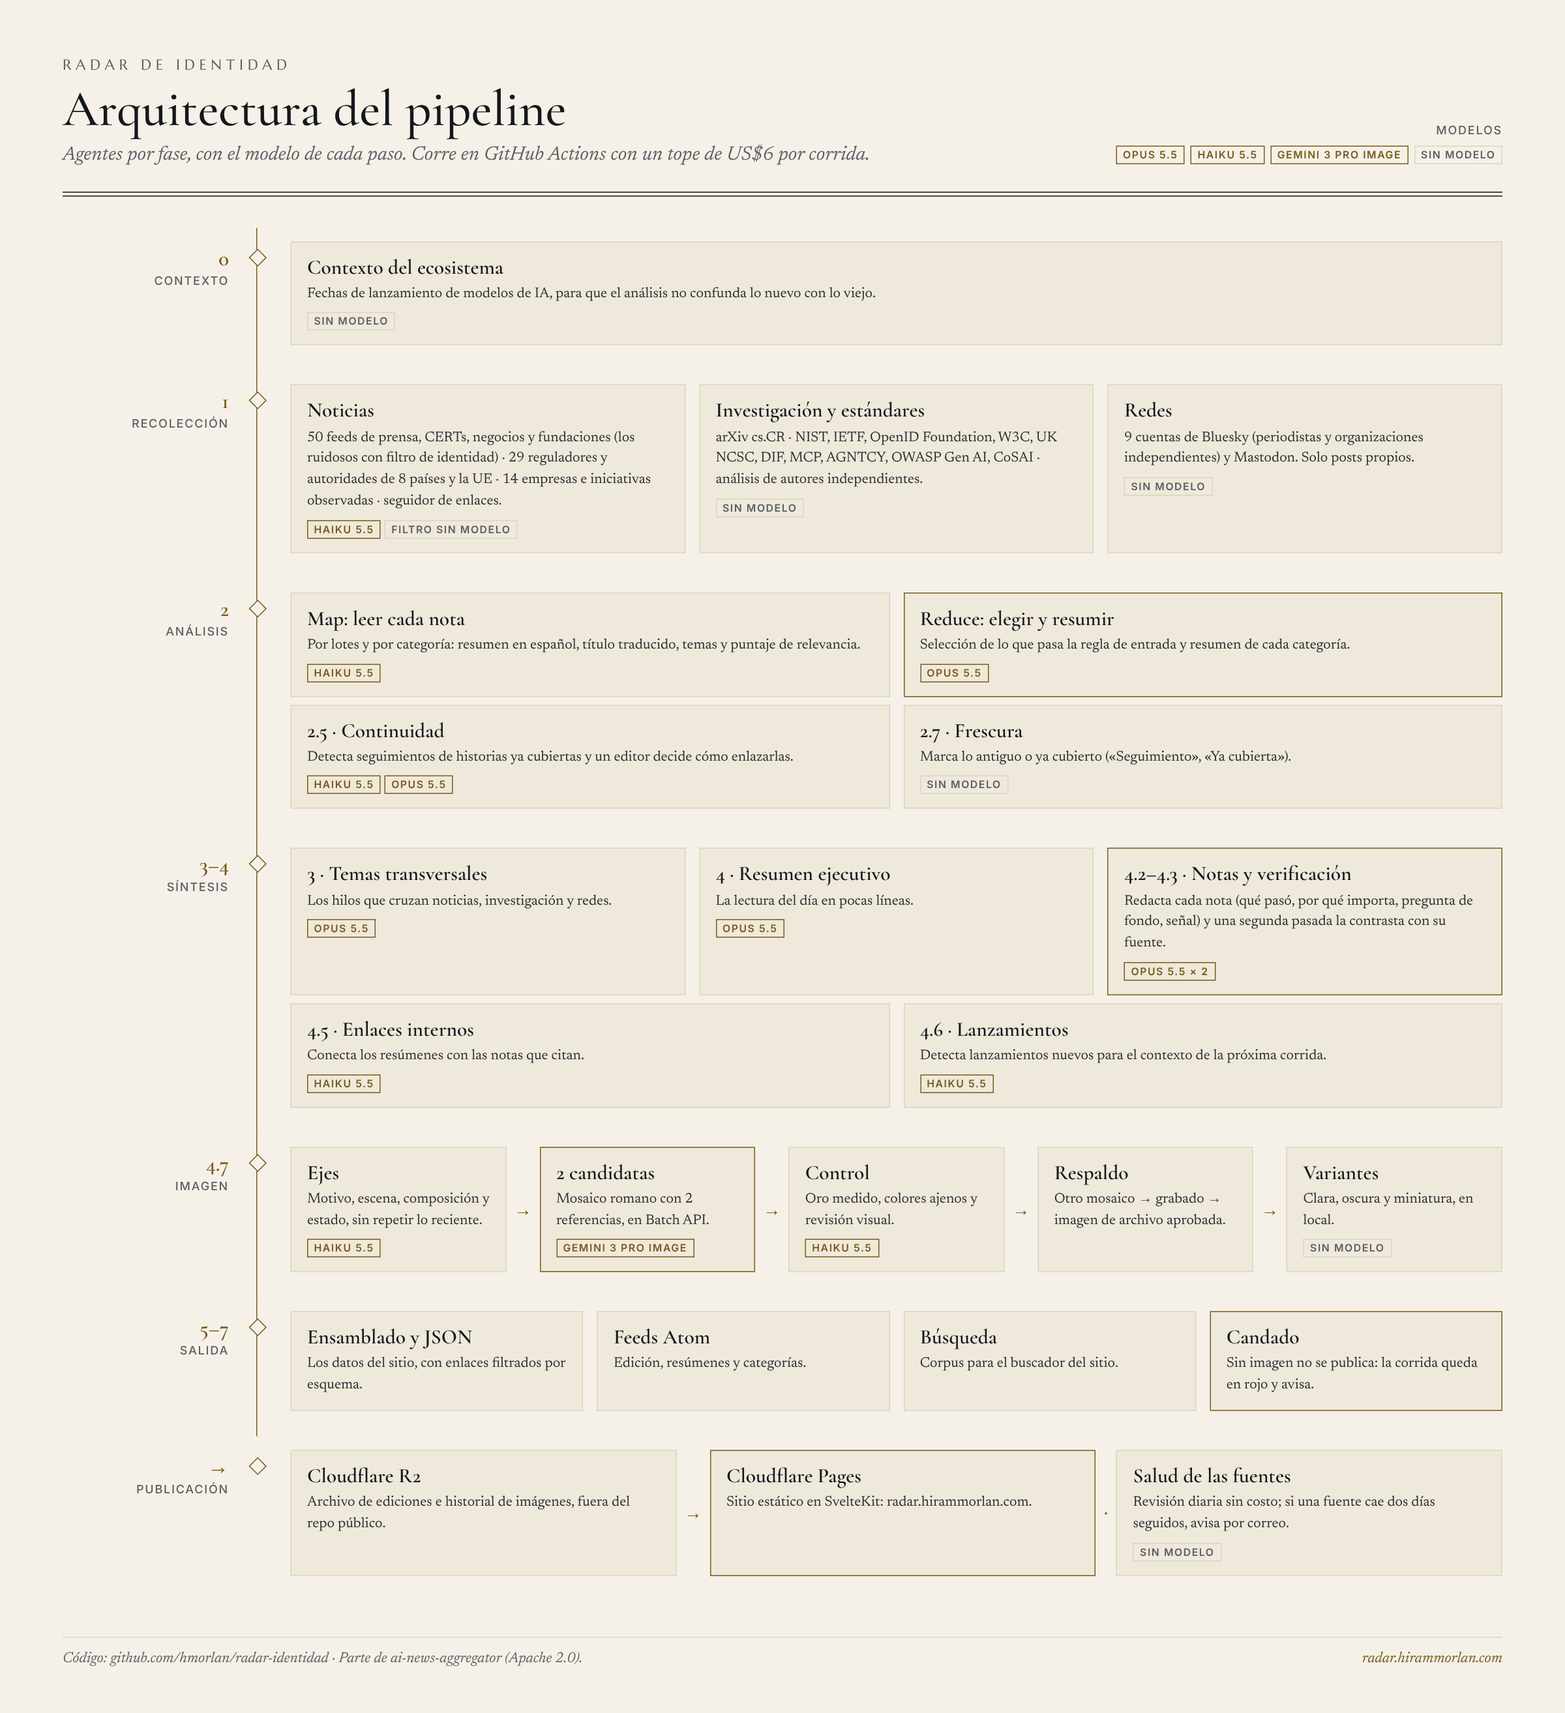
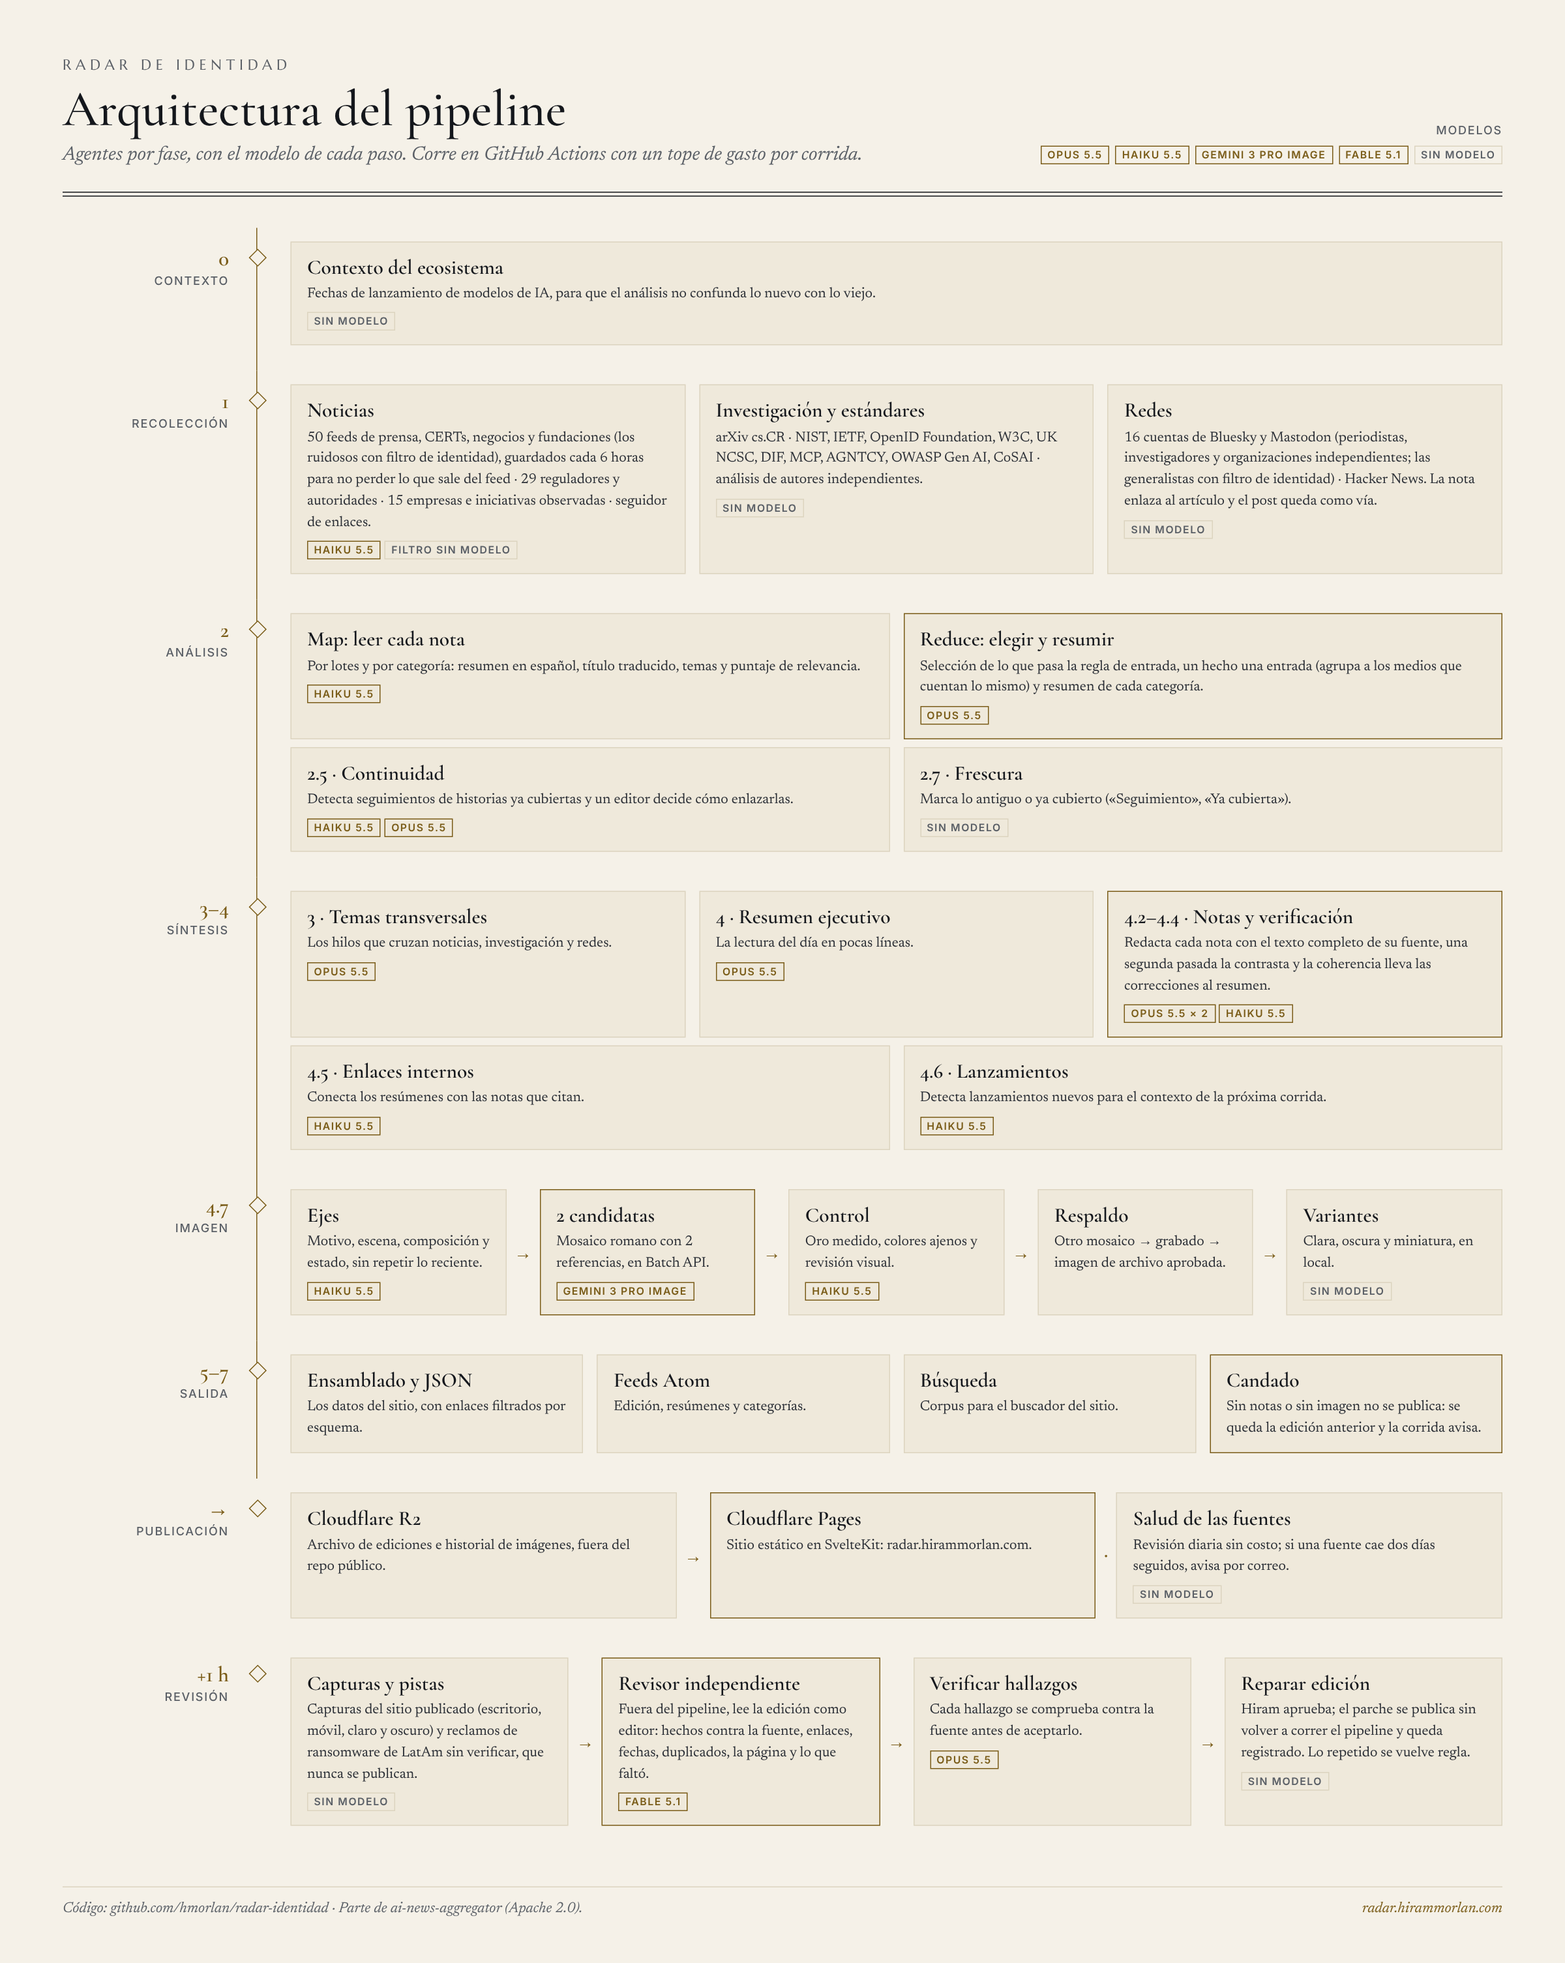
Acerca de: diagramas con la revisión independiente y las fuentes al día
- "Cómo funciona" pasa a seis pasos: VI · Otros ojos (Claude Fable revisa la
  edición publicada; Hiram aprueba cada corrección).
- Arquitectura: fila "+1 h · Revisión" (capturas y pistas → revisor Fable 5.1 →
  verificar hallazgos con Opus → Reparar edición), coherencia 4.4 con Haiku,
  un hecho una entrada, recolección cada 6 horas, 16 cuentas + Hacker News, 15
  empresas, candado sin notas o sin imagen, tope de gasto sin cifra fija.
- Texto de "Cómo se hace" con la revisión independiente.

Claude-Session: https://claude.ai/code/session_01JrJSoux1GnVouVjAFfqAR6

diff --git a/docs/diagramas/arquitectura.html b/docs/diagramas/arquitectura.html
@@ -30,10 +30,10 @@
     <div>
       <div class="marca">RADAR DE IDENTIDAD</div>
       <h1>Arquitectura del pipeline</h1>
-      <p class="bajada">Agentes por fase, con el modelo de cada paso. Corre en GitHub Actions con un tope de US$6 por corrida.</p>
+      <p class="bajada">Agentes por fase, con el modelo de cada paso. Corre en GitHub Actions con un tope de gasto por corrida.</p>
     </div>
     <div class="leyenda"><span class="label">Modelos</span><br>
-      <span class="modelo">Opus 5.5</span><span class="modelo">Haiku 5.5</span><span class="modelo">Gemini 3 Pro Image</span><span class="modelo sin">Sin modelo</span>
+      <span class="modelo">Opus 5.5</span><span class="modelo">Haiku 5.5</span><span class="modelo">Gemini 3 Pro Image</span><span class="modelo">Fable 5.1</span><span class="modelo sin">Sin modelo</span>
     </div>
   </div>
   <div class="doble"></div>
@@ -43,15 +43,15 @@
 
   <div class="fila"><div class="fase"><span class="romano">1</span><span class="label">Recolección</span></div>
     <div class="riel"><div class="cajas c3">
-      <div class="caja"><div class="titulo">Noticias</div><p class="texto">50 feeds de prensa, CERTs, negocios y fundaciones (los ruidosos con filtro de identidad) · 29 reguladores y autoridades de 8 países y la UE · 14 empresas e iniciativas observadas · seguidor de enlaces.</p><span class="modelo">Haiku 5.5</span> <span class="modelo sin">Filtro sin modelo</span></div>
+      <div class="caja"><div class="titulo">Noticias</div><p class="texto">50 feeds de prensa, CERTs, negocios y fundaciones (los ruidosos con filtro de identidad), guardados cada 6 horas para no perder lo que sale del feed · 29 reguladores y autoridades · 15 empresas e iniciativas observadas · seguidor de enlaces.</p><span class="modelo">Haiku 5.5</span> <span class="modelo sin">Filtro sin modelo</span></div>
       <div class="caja"><div class="titulo">Investigación y estándares</div><p class="texto">arXiv cs.CR · NIST, IETF, OpenID Foundation, W3C, UK NCSC, DIF, MCP, AGNTCY, OWASP Gen AI, CoSAI · análisis de autores independientes.</p><span class="modelo sin">Sin modelo</span></div>
-      <div class="caja"><div class="titulo">Redes</div><p class="texto">9 cuentas de Bluesky (periodistas y organizaciones independientes) y Mastodon. Solo posts propios.</p><span class="modelo sin">Sin modelo</span></div>
+      <div class="caja"><div class="titulo">Redes</div><p class="texto">16 cuentas de Bluesky y Mastodon (periodistas, investigadores y organizaciones independientes; las generalistas con filtro de identidad) · Hacker News. La nota enlaza al artículo y el post queda como vía.</p><span class="modelo sin">Sin modelo</span></div>
     </div></div></div>
 
   <div class="fila"><div class="fase"><span class="romano">2</span><span class="label">Análisis</span></div>
     <div class="riel"><div class="cajas c2">
       <div class="caja"><div class="titulo">Map: leer cada nota</div><p class="texto">Por lotes y por categoría: resumen en español, título traducido, temas y puntaje de relevancia.</p><span class="modelo">Haiku 5.5</span></div>
-      <div class="caja clave"><div class="titulo">Reduce: elegir y resumir</div><p class="texto">Selección de lo que pasa la regla de entrada y resumen de cada categoría.</p><span class="modelo">Opus 5.5</span></div>
+      <div class="caja clave"><div class="titulo">Reduce: elegir y resumir</div><p class="texto">Selección de lo que pasa la regla de entrada, un hecho una entrada (agrupa a los medios que cuentan lo mismo) y resumen de cada categoría.</p><span class="modelo">Opus 5.5</span></div>
     </div>
     <div class="lateral" style="grid-template-columns:1fr 1fr">
       <div class="caja"><div class="titulo">2.5 · Continuidad</div><p class="texto">Detecta seguimientos de historias ya cubiertas y un editor decide cómo enlazarlas.</p><span class="modelo">Haiku 5.5</span> <span class="modelo">Opus 5.5</span></div>
@@ -62,7 +62,7 @@
     <div class="riel"><div class="cajas c3">
       <div class="caja"><div class="titulo">3 · Temas transversales</div><p class="texto">Los hilos que cruzan noticias, investigación y redes.</p><span class="modelo">Opus 5.5</span></div>
       <div class="caja"><div class="titulo">4 · Resumen ejecutivo</div><p class="texto">La lectura del día en pocas líneas.</p><span class="modelo">Opus 5.5</span></div>
-      <div class="caja clave"><div class="titulo">4.2–4.3 · Notas y verificación</div><p class="texto">Redacta cada nota (qué pasó, por qué importa, pregunta de fondo, señal) y una segunda pasada la contrasta con su fuente.</p><span class="modelo">Opus 5.5 × 2</span></div>
+      <div class="caja clave"><div class="titulo">4.2–4.4 · Notas y verificación</div><p class="texto">Redacta cada nota con el texto completo de su fuente, una segunda pasada la contrasta y la coherencia lleva las correcciones al resumen.</p><span class="modelo">Opus 5.5 × 2</span> <span class="modelo">Haiku 5.5</span></div>
     </div>
     <div class="lateral" style="grid-template-columns:1fr 1fr">
       <div class="caja"><div class="titulo">4.5 · Enlaces internos</div><p class="texto">Conecta los resúmenes con las notas que citan.</p><span class="modelo">Haiku 5.5</span></div>
@@ -87,7 +87,7 @@
       <div class="caja"><div class="titulo">Ensamblado y JSON</div><p class="texto">Los datos del sitio, con enlaces filtrados por esquema.</p></div>
       <div class="caja"><div class="titulo">Feeds Atom</div><p class="texto">Edición, resúmenes y categorías.</p></div>
       <div class="caja"><div class="titulo">Búsqueda</div><p class="texto">Corpus para el buscador del sitio.</p></div>
-      <div class="caja clave"><div class="titulo">Candado</div><p class="texto">Sin imagen no se publica: la corrida queda en rojo y avisa.</p></div>
+      <div class="caja clave"><div class="titulo">Candado</div><p class="texto">Sin notas o sin imagen no se publica: se queda la edición anterior y la corrida avisa.</p></div>
     </div></div></div>
 
   <div class="fila"><div class="fase"><span class="romano">→</span><span class="label">Publicación</span></div>
@@ -97,6 +97,17 @@
       <div class="caja clave"><div class="titulo">Cloudflare Pages</div><p class="texto">Sitio estático en SvelteKit: radar.hirammorlan.com.</p></div>
       <span class="flecha">·</span>
       <div class="caja"><div class="titulo">Salud de las fuentes</div><p class="texto">Revisión diaria sin costo; si una fuente cae dos días seguidos, avisa por correo.</p><span class="modelo sin">Sin modelo</span></div>
+    </div></div></div>
+
+  <div class="fila"><div class="fase"><span class="romano">+1 h</span><span class="label">Revisión</span></div>
+    <div class="riel" style="border-left-color:transparent"><div class="cadena">
+      <div class="caja"><div class="titulo">Capturas y pistas</div><p class="texto">Capturas del sitio publicado (escritorio, móvil, claro y oscuro) y reclamos de ransomware de LatAm sin verificar, que nunca se publican.</p><span class="modelo sin">Sin modelo</span></div>
+      <span class="flecha">→</span>
+      <div class="caja clave"><div class="titulo">Revisor independiente</div><p class="texto">Fuera del pipeline, lee la edición como editor: hechos contra la fuente, enlaces, fechas, duplicados, la página y lo que faltó.</p><span class="modelo">Fable 5.1</span></div>
+      <span class="flecha">→</span>
+      <div class="caja"><div class="titulo">Verificar hallazgos</div><p class="texto">Cada hallazgo se comprueba contra la fuente antes de aceptarlo.</p><span class="modelo">Opus 5.5</span></div>
+      <span class="flecha">→</span>
+      <div class="caja"><div class="titulo">Reparar edición</div><p class="texto">Hiram aprueba; el parche se publica sin volver a correr el pipeline y queda registrado. Lo repetido se vuelve regla.</p><span class="modelo sin">Sin modelo</span></div>
     </div></div></div>
 
   <div class="pie"><span>Código: github.com/hmorlan/radar-identidad · Parte de ai-news-aggregator (Apache 2.0).</span><span class="oro">radar.hirammorlan.com</span></div>

diff --git a/docs/diagramas/como-funciona.html b/docs/diagramas/como-funciona.html
@@ -2,14 +2,15 @@
 <html lang="es"><head><meta charset="utf-8"><link rel="stylesheet" href="diagramas.css">
 <style>
   .lienzo { width: 1600px; }
-  .pasos { display: grid; grid-template-columns: repeat(5, 1fr); position: relative; }
+  .pasos { display: grid; grid-template-columns: repeat(6, 1fr); position: relative; }
   .pasos::before { content: ''; position: absolute; left: 6%; right: 6%; top: 34px; border-top: 1px solid var(--oro); }
-  .paso { padding: 0 18px; position: relative; }
+  .paso { padding: 0 14px; position: relative; }
   .nodo { width: 68px; height: 68px; border: 1px solid var(--oro); background: var(--papel); display: flex; align-items: center; justify-content: center; margin: 0 auto 22px; transform: rotate(45deg); }
   .nodo span { transform: rotate(-45deg); font-size: 28px; }
   .paso .label { text-align: center; display: block; }
-  .paso .titulo { font-size: 27px; text-align: center; margin: 6px 0 12px; }
-  .paso .texto { text-align: center; }
+  .paso .titulo { font-size: 25px; text-align: center; margin: 6px 0 12px; }
+  .paso .texto { text-align: center; font-size: 15.5px; }
+  .paso.despues .nodo { border-style: dashed; }
   .regla { margin: 40px auto 0; max-width: 980px; border: 1px solid var(--oro); padding: 18px 26px; text-align: center; }
   .regla .q { font-family: 'Cormorant Garamond', serif; font-style: italic; font-weight: 500; font-size: 30px; color: var(--tinta); margin-top: 6px; }
   /* Versión vertical para teléfonos (html.movil). */
@@ -28,7 +29,7 @@
 <body><div class="lienzo">
   <div class="marca">RADAR DE IDENTIDAD</div>
   <h1>Cómo funciona</h1>
-  <p class="bajada">De cientos de fuentes públicas a unas cuantas notas con criterio.</p>
+  <p class="bajada">De cientos de fuentes públicas a unas cuantas notas con criterio, revisadas dos veces.</p>
   <div class="doble"></div>
 
   <div class="pasos">
@@ -36,7 +37,7 @@
       <div class="nodo"><span class="romano">I</span></div>
       <span class="label">Recolección</span>
       <div class="titulo">Fuentes públicas</div>
-      <p class="texto">50 medios de prensa, CERTs y negocios · 19 de estándares e investigación · arXiv · 9 cuentas de Bluesky · 29 reguladores y autoridades de 8 países y la UE · 14 empresas e iniciativas observadas.</p>
+      <p class="texto">50 medios de prensa, CERTs y negocios, leídos cada 6 horas · 19 de estándares e investigación · arXiv · 29 reguladores y autoridades · 15 empresas e iniciativas observadas · 16 cuentas de Bluesky y Mastodon · Hacker News.</p>
     </div>
     <div class="paso">
       <div class="nodo"><span class="romano">II</span></div>
@@ -54,13 +55,19 @@
       <div class="nodo"><span class="romano">IV</span></div>
       <span class="label">Redacción</span>
       <div class="titulo">Escribir y verificar</div>
-      <p class="texto">Claude Opus elige lo importante y redacta cada nota. Una segunda pasada la contrasta con el texto de su fuente.</p>
+      <p class="texto">Claude Opus elige lo importante, junta lo que cuenta el mismo hecho y redacta cada nota. Una segunda pasada la contrasta con el texto completo de su fuente.</p>
     </div>
     <div class="paso">
       <div class="nodo"><span class="romano">V</span></div>
       <span class="label">Edición</span>
       <div class="titulo">Publicar</div>
       <p class="texto">Qué pasó, por qué importa, la pregunta de fondo y su nivel de señal. Con su imagen en mosaico, archivo y RSS.</p>
+    </div>
+    <div class="paso despues">
+      <div class="nodo"><span class="romano">VI</span></div>
+      <span class="label">Revisión</span>
+      <div class="titulo">Otros ojos</div>
+      <p class="texto">Ya publicada, otro modelo que no hizo la edición (Claude Fable) la lee como editor: contrasta cada nota con su fuente, revisa la página y busca lo que faltó. Hiram aprueba cada corrección.</p>
     </div>
   </div>
 
@@ -69,5 +76,5 @@
     <div class="q">¿La noticia cambia cómo decidimos en quién o en qué confiar?</div>
   </div>
 
-  <div class="pie"><span>Cada nota enlaza a su fuente original. Sin blogs ni comunicados de proveedores de identidad.</span><span class="oro">radar.hirammorlan.com</span></div>
+  <div class="pie"><span>Cada nota enlaza a su fuente original. Sin blogs ni comunicados de proveedores de identidad. Las correcciones quedan registradas.</span><span class="oro">radar.hirammorlan.com</span></div>
 </div></body></html>

diff --git a/frontend/src/routes/about/+page.svelte b/frontend/src/routes/about/+page.svelte
@@ -43,31 +43,36 @@
 				fuente.
 			</p>
 			<p>
+				Ya publicada, otro modelo que no hizo la edición la revisa como editor: contrasta cada
+				nota con su fuente, revisa la página y busca lo que faltó. Las correcciones las aprueba
+				una persona y quedan registradas en la edición.
+			</p>
+			<p>
 				<strong>La IA puede equivocarse.</strong> Por eso cada nota enlaza a su fuente original:
 				verifícala antes de actuar o compartir.
 			</p>
 		</div>
 		<figure class="mt-6">
 			<picture class="block dark:hidden">
-				<source media="(max-width: 640px)" srcset="/img/como-funciona-movil-claro.webp" width="1080" height="1830" />
-				<img src="/img/como-funciona-claro.webp" width="2400" height="1200" loading="lazy"
-					class="w-full h-auto border border-filete" alt="Cómo funciona en cinco pasos: fuentes públicas, filtro de identidad, lectura y clasificación con Claude Haiku, redacción y verificación con Claude Opus, y publicación." />
+				<source media="(max-width: 640px)" srcset="/img/como-funciona-movil-claro.webp" width="1080" height="2190" />
+				<img src="/img/como-funciona-claro.webp" width="2400" height="1232" loading="lazy"
+					class="w-full h-auto border border-filete" alt="Cómo funciona en seis pasos: fuentes públicas, filtro de identidad, lectura y clasificación con Claude Haiku, redacción y verificación con Claude Opus, publicación y revisión independiente con Claude Fable." />
 			</picture>
 			<picture class="hidden dark:block">
-				<source media="(max-width: 640px)" srcset="/img/como-funciona-movil-oscuro.webp" width="1080" height="1830" />
-				<img src="/img/como-funciona-oscuro.webp" width="2400" height="1200" loading="lazy"
-					class="w-full h-auto border border-filete" alt="Cómo funciona en cinco pasos: fuentes públicas, filtro de identidad, lectura y clasificación con Claude Haiku, redacción y verificación con Claude Opus, y publicación." />
+				<source media="(max-width: 640px)" srcset="/img/como-funciona-movil-oscuro.webp" width="1080" height="2190" />
+				<img src="/img/como-funciona-oscuro.webp" width="2400" height="1232" loading="lazy"
+					class="w-full h-auto border border-filete" alt="Cómo funciona en seis pasos: fuentes públicas, filtro de identidad, lectura y clasificación con Claude Haiku, redacción y verificación con Claude Opus, publicación y revisión independiente con Claude Fable." />
 			</picture>
 		</figure>
 		<details class="mt-6 group">
 			<summary class="t-ui !text-[12px] text-oro cursor-pointer">Ver la arquitectura completa</summary>
 			<figure class="mt-4 -mx-2 sm:mx-0">
 				<a href="/img/arquitectura-claro.webp" class="block dark:hidden" target="_blank" rel="noopener">
-					<img src="/img/arquitectura-claro.webp" width="2400" height="2628" loading="lazy" class="w-full h-auto border border-filete"
+					<img src="/img/arquitectura-claro.webp" width="2400" height="3011" loading="lazy" class="w-full h-auto border border-filete"
 						alt="Arquitectura del pipeline por fases, con el modelo de cada paso." />
 				</a>
 				<a href="/img/arquitectura-oscuro.webp" class="hidden dark:block" target="_blank" rel="noopener">
-					<img src="/img/arquitectura-oscuro.webp" width="2400" height="2628" loading="lazy" class="w-full h-auto border border-filete"
+					<img src="/img/arquitectura-oscuro.webp" width="2400" height="3011" loading="lazy" class="w-full h-auto border border-filete"
 						alt="Arquitectura del pipeline por fases, con el modelo de cada paso." />
 				</a>
 				<figcaption class="t-ui !normal-case !tracking-normal !text-[12px] text-tinta-suave mt-2">
